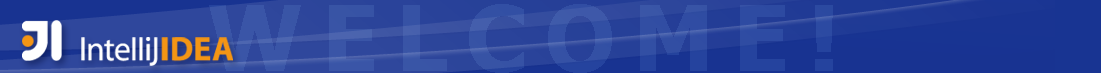
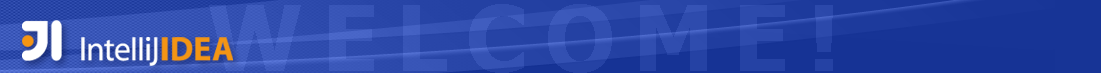
new images from Julia

diff --git a/ui/impl/com/intellij/openapi/wm/impl/welcomeScreen/WelcomeScreen.java b/ui/impl/com/intellij/openapi/wm/impl/welcomeScreen/WelcomeScreen.java
@@ -99,7 +99,7 @@ public class WelcomeScreen {
   private static final Color MAIN_PANEL_BACKGROUND = new Color(238, 238, 238);
   private static final Color LEARN_MORE_BUTTON_COLOR = new Color(238, 238, 238);
   private static final Color GRAY_BORDER_COLOR = new Color(177, 177, 177);
-  private static Color CAPTION_BACKGROUND = new Color(24, 52, 146);
+  private static Color CAPTION_BACKGROUND = new Color(23, 52, 150);
   private static final Color ACTION_BUTTON_COLOR = new Color(201, 205, 217);
   private static final Color ACTION_BUTTON_BORDER_COLOR = new Color(166, 170, 182);
   private static final Color WHITE_BORDER_COLOR = new Color(255, 255, 255);
